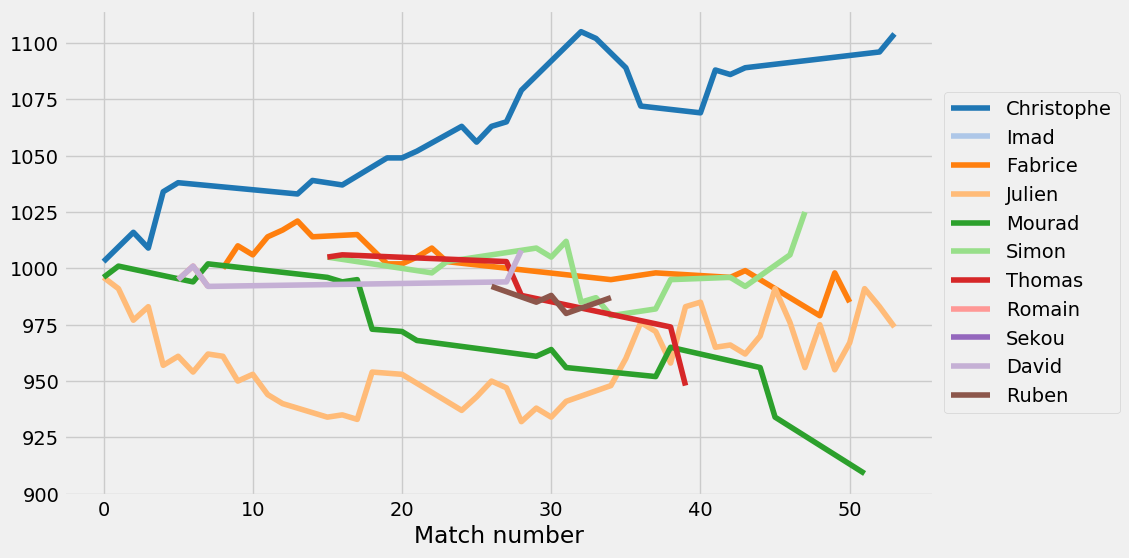
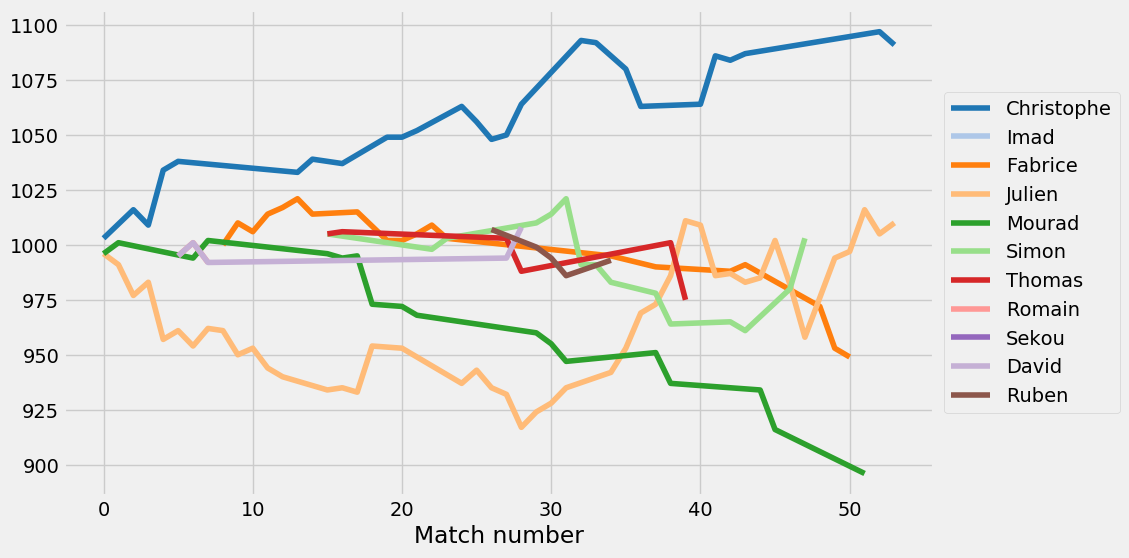
Debug

diff --git a/server.py b/server.py
@@ -153,33 +153,23 @@ class myHandler(BaseHTTPRequestHandler):
 
                 for player in players:
                     df_elos_player = df_elos[df_elos['player'] == player]
-                    print(df_elos_player.head())
                     elo_values = df_elos_player[df_elos_player.index == df_elos_player.index.max()].elo.values
                     elo = int(elo_values[0]) if elo_values.size == 1 else 1000
                     elos.append(elo)
 
                 updated_elos = []
                 actual_score = max(scores) / (max(scores) + min(scores))
+                print("Actual: " + str(actual_score))
                 if len(players) == 2:
                     expected_score = 1 / (1 + 10**((elos[1] - elos[0])/500))
-                    if scores[0] > scores[1]:
-                        updated_elos.append(elos[0] + 100 * (actual_score - expected_score))
-                        updated_elos.append(elos[1] + 100 * (expected_score - actual_score)) 
-                    else:
-                        updated_elos.append(elos[0] + 100 * (expected_score - actual_score))
-                        updated_elos.append(elos[1] + 100 * (actual_score - expected_score))
+                    updated_elos.append(elos[0] + 100 * (actual_score - expected_score))
+                    updated_elos.append(elos[1] + 100 * (expected_score - actual_score)) 
                 else:
                     expected_score = 1 / (1 + 10**(((((elos[2] + elos[3]) / 2) - ((elos[0] + elos[1])) / 2)) / 500))
-                    if scores[0] > scores[1]:
-                        updated_elos.append(elos[0] + 50 * (actual_score - expected_score))
-                        updated_elos.append(elos[1] + 50 * (actual_score - expected_score))
-                        updated_elos.append(elos[2] + 50 * (expected_score - actual_score)) 
-                        updated_elos.append(elos[3] + 50 * (expected_score - actual_score)) 
-                    else:
-                        updated_elos.append(elos[0] + 50 * (expected_score - actual_score))
-                        updated_elos.append(elos[1] + 50 * (expected_score - actual_score))
-                        updated_elos.append(elos[2] + 50 * (actual_score - expected_score))
-                        updated_elos.append(elos[3] + 50 * (actual_score - expected_score))
+                    updated_elos.append(elos[0] + 50 * (actual_score - expected_score))
+                    updated_elos.append(elos[1] + 50 * (actual_score - expected_score))
+                    updated_elos.append(elos[2] + 50 * (expected_score - actual_score)) 
+                    updated_elos.append(elos[3] + 50 * (expected_score - actual_score)) 
                     
                 for player,updated_elo in zip(players,updated_elos): 
                     new_elo_entry = {
